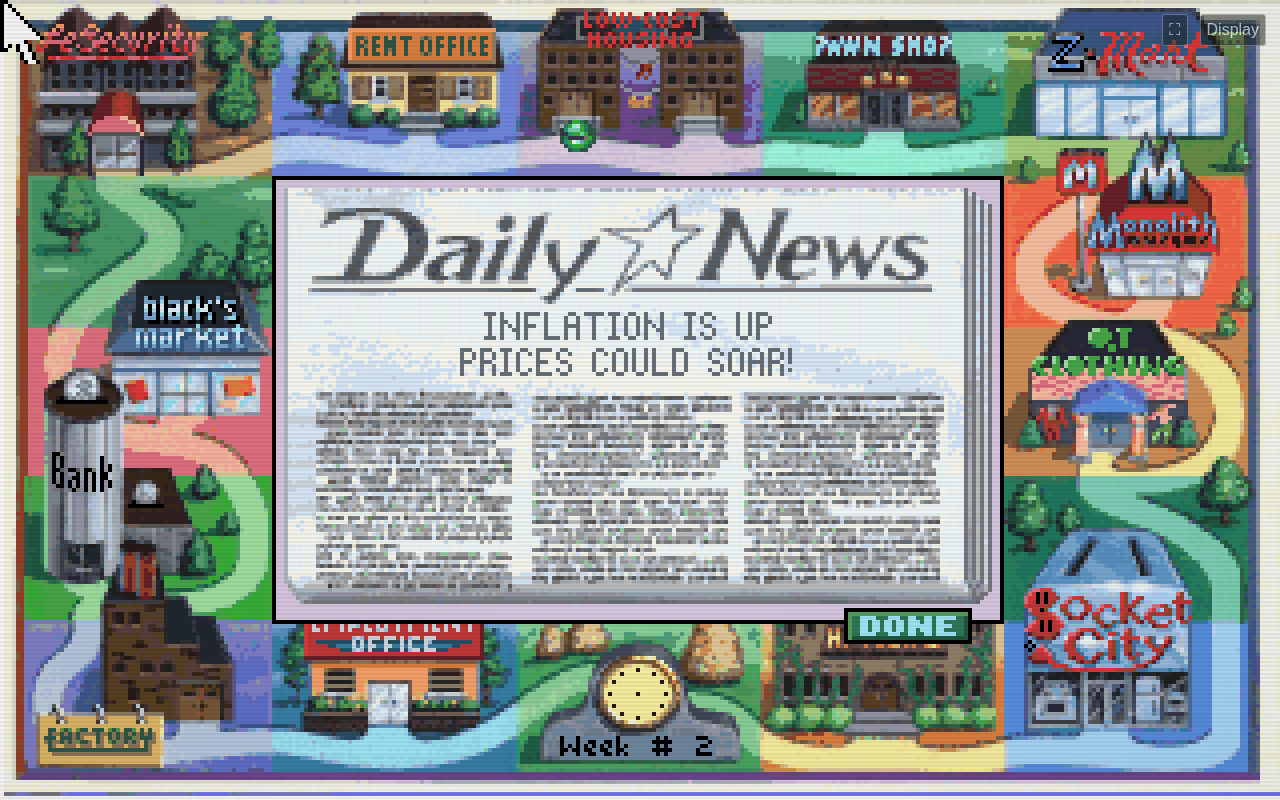
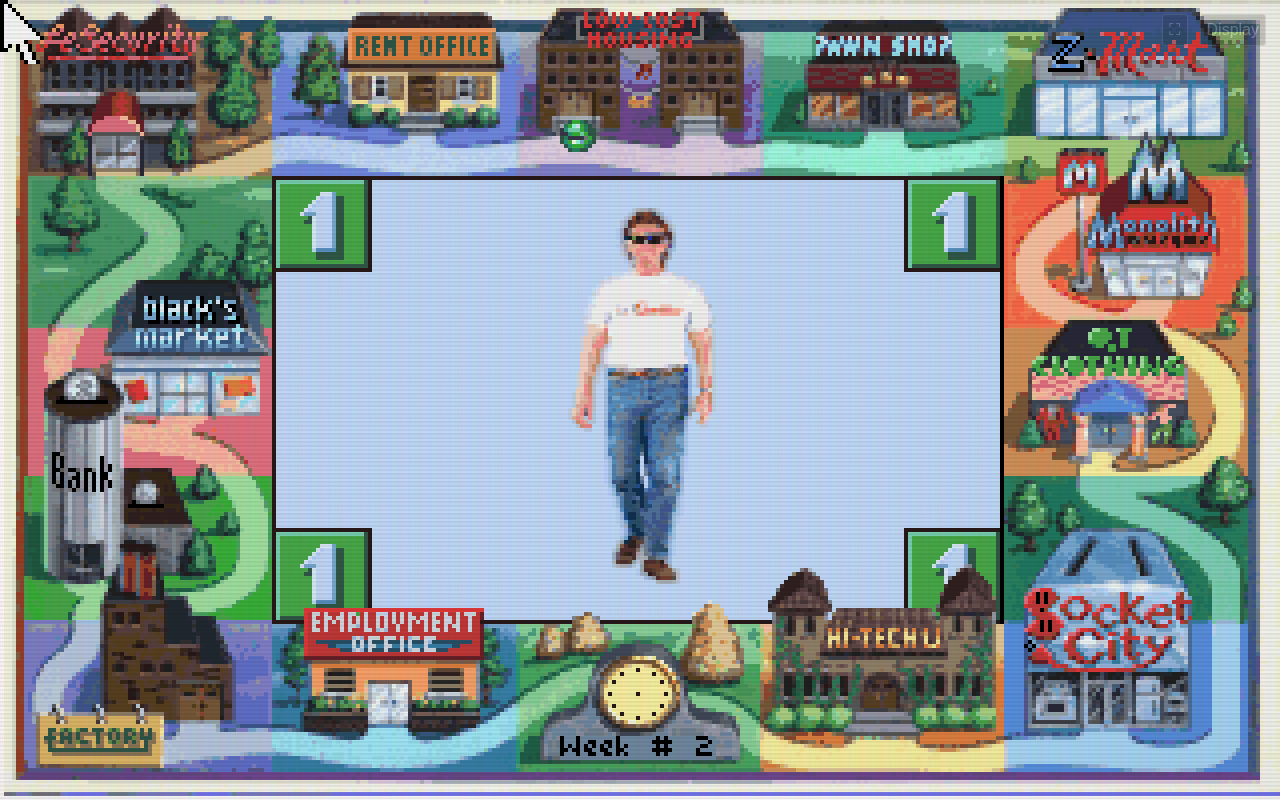
Preserve the original list row background over tall scroll arrows

Changed region(s): [[0.1875, 0.2188, 0.7812, 0.8125], [0.9062, 0.0, 1.0, 0.0625]]

diff --git a/tests/native_strings.test.ts b/tests/native_strings.test.ts
@@ -87,4 +87,8 @@ test('original inventory selector draws its pointer-addressed rows and scrolls t
   rt.set(control,'type',6);rt.set(control,'cursor',{...text,byte:50});
   await kernel(rt,'DrawControl',[control]);
   assert(graphics.drainFrame().commands.some(c=>c.op==='invert'),'Selectable list highlights its cursor reference by byte address');
+  rt.writeText(text,' '.repeat(25));rt.set(control,'type',7);rt.set(control,'brTop',text);rt.set(control,'cursor',text);
+  await kernel(rt,'DrawControl',[control]);
+  const frame=graphics.snapshot(),pixels=Buffer.from(frame.pixels,'base64'),top=rt.get(control,'nsTop')+10,left=rt.get(control,'nsLeft'),right=rt.get(control,'nsRight');
+  for(let y=top;y<top+manifest.fonts[4].lineHeight;y++)for(let x=left;x<right;x++)assert.equal(pixels[y*320+x],graphics.port.backColor,'An empty first row must erase the tall arrow glyph beneath it');
 });

diff --git a/native/runtime/kernels.ts b/native/runtime/kernels.ts
@@ -97,6 +97,9 @@ function drawControl(rt:Runtime,o:any,highlight=false) {
       const height=g.assets.fonts[font].lineHeight;
       if(stride>0&&start?.kind==='ref')for(let row=0,top=y+10;top+height<=bottom-10;row++,top+=height){
         const entry={...start,byte:start.byte+row*stride},label=rt.text(entry);if(!label)break;
+        // Original list rows erase their background after drawing the arrows;
+        // Jones' tall arrow glyph otherwise overlaps the first statistics row.
+        g.fillRect({left:x,top,right,bottom:top+height},g.port.backColor);
         g.drawText(label.slice(0,stride),x,top,{font,maxWidth:width});
         const selected=cursor?.kind==='ref'&&cursor.owner===entry.owner&&cursor.index*2+cursor.byte===entry.index*2+entry.byte;
         if(get('type')===6&&selected)g.invertRect({left:x,top,right,bottom:top+height});
